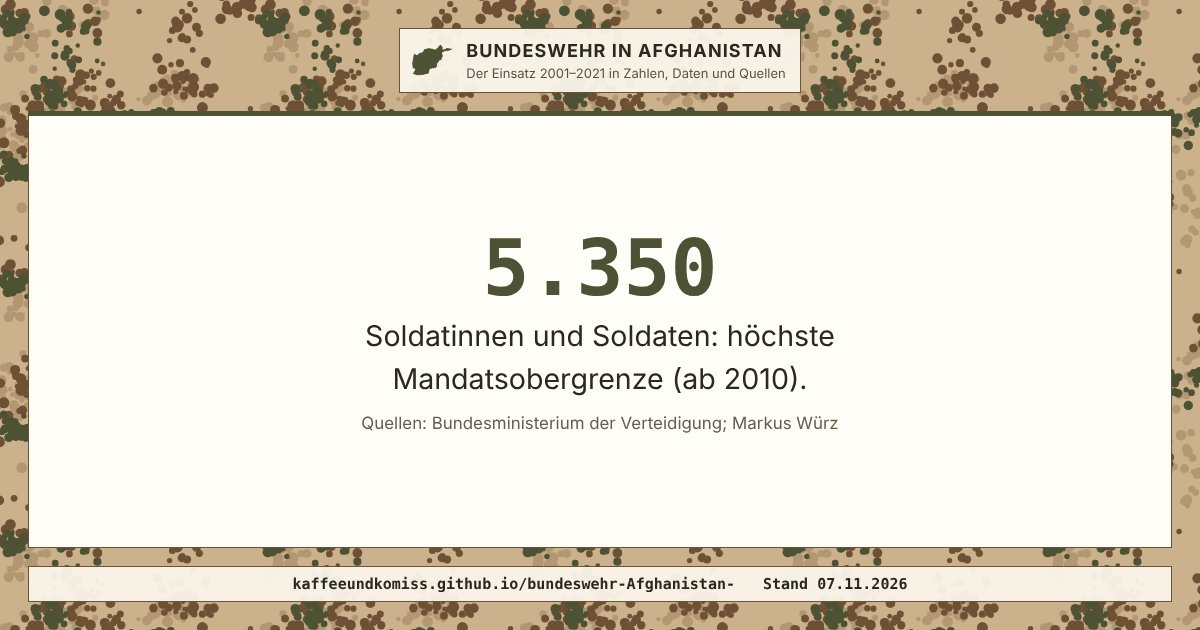
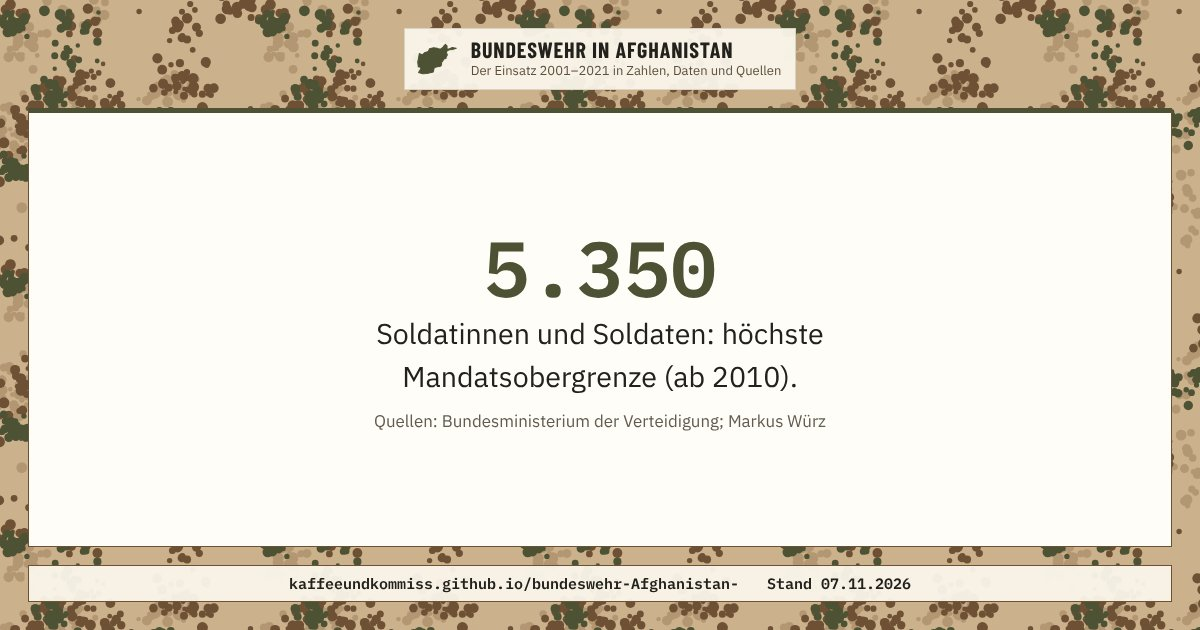
Schreibweise „Kommiss“: Name und Adressen auf kaffeeundkommiss umstellen
Angezeigter Name „Kaffee und Komiss“ wird „Kaffee und Kommiss“,
alle Adressen kaffeeundkomiss.github.io werden kaffeeundkommiss.github.io.
Erst nach der Umbenennung der Organisation zusammenführen.

Claude-Session: https://claude.ai/code/session_01AuP7hHYXuN4HKAYRaGng7a

diff --git a/index.html b/index.html
@@ -5,14 +5,14 @@
 <meta name="viewport" content="width=device-width, initial-scale=1">
 <title>Bundeswehr in Afghanistan</title>
 <meta name="description" content="Der Einsatz der Bundeswehr in Afghanistan 2001–2021: Kennzahlen, Zeitleiste und Aufarbeitung, jede Angabe mit Quelle.">
-<link rel="canonical" href="https://kaffeeundkomiss.github.io/bundeswehr-Afghanistan-/">
+<link rel="canonical" href="https://kaffeeundkommiss.github.io/bundeswehr-Afghanistan-/">
 <meta property="og:type" content="website">
 <meta property="og:locale" content="de_DE">
 <meta property="og:site_name" content="Bundeswehr in Afghanistan">
 <meta property="og:title" content="Bundeswehr in Afghanistan 2001–2021">
 <meta property="og:description" content="Der Einsatz der Bundeswehr in Afghanistan 2001–2021: Kennzahlen, Zeitleiste und Aufarbeitung, jede Angabe mit Quelle.">
-<meta property="og:url" content="https://kaffeeundkomiss.github.io/bundeswehr-Afghanistan-/">
-<meta property="og:image" content="https://kaffeeundkomiss.github.io/bundeswehr-Afghanistan-/teilen/bilder/start.jpg?v=38b8fcf4">
+<meta property="og:url" content="https://kaffeeundkommiss.github.io/bundeswehr-Afghanistan-/">
+<meta property="og:image" content="https://kaffeeundkommiss.github.io/bundeswehr-Afghanistan-/teilen/bilder/start.jpg?v=f6bd7b50">
 <meta property="og:image:width" content="1200">
 <meta property="og:image:height" content="630">
 <meta property="og:image:alt" content="Schriftzug Bundeswehr in Afghanistan auf Tarnmuster">
@@ -29,8 +29,8 @@
 </head>
 <body>
 <div class="kk-leiste"><div class="kk-in">
-  <a class="kk-haus" href="https://kaffeeundkomiss.github.io/"><img src="kk-tasse.svg" alt="" width="22" height="22"><span>Kaffee und Komiss</span></a>
-  <nav class="kk-bereiche" aria-label="Bereiche"><a href="https://kaffeeundkomiss.github.io/erster-Weltkrieg/">Geschichte</a><a href="https://kaffeeundkomiss.github.io/bundeswehr-Afghanistan-/" aria-current="true"><span class="kk-lang">Sicherheitspolitik</span><span class="kk-kurz">Sicherheit</span></a><a href="https://kirchnerjan-cell.github.io/fdp-monitor/">Politik</a></nav>
+  <a class="kk-haus" href="https://kaffeeundkommiss.github.io/"><img src="kk-tasse.svg" alt="" width="22" height="22"><span>Kaffee und Kommiss</span></a>
+  <nav class="kk-bereiche" aria-label="Bereiche"><a href="https://kaffeeundkommiss.github.io/erster-Weltkrieg/">Geschichte</a><a href="https://kaffeeundkommiss.github.io/bundeswehr-Afghanistan-/" aria-current="true"><span class="kk-lang">Sicherheitspolitik</span><span class="kk-kurz">Sicherheit</span></a><a href="https://kirchnerjan-cell.github.io/fdp-monitor/">Politik</a></nav>
 </div></div>
 <header class="top">
   <div class="wrap">
@@ -274,7 +274,7 @@
 </main>
 
 <footer class="kk-fuss"><div class="kk-in">
-  <p><a href="https://kaffeeundkomiss.github.io/">Kaffee und Komiss</a>: Politik, Geschichte und Sicherheitspolitik mit Quellen. Private, nichtkommerzielle Zusammenstellung. Fehler gefunden? Bitte mit Quelle melden.</p>
+  <p><a href="https://kaffeeundkommiss.github.io/">Kaffee und Kommiss</a>: Politik, Geschichte und Sicherheitspolitik mit Quellen. Private, nichtkommerzielle Zusammenstellung. Fehler gefunden? Bitte mit Quelle melden.</p>
 </div></footer>
 </body>
 </html>

diff --git a/karte.html b/karte.html
@@ -17,8 +17,8 @@
 </head>
 <body>
 <div class="kk-leiste"><div class="kk-in">
-  <a class="kk-haus" href="https://kaffeeundkomiss.github.io/"><img src="kk-tasse.svg" alt="" width="22" height="22"><span>Kaffee und Komiss</span></a>
-  <nav class="kk-bereiche" aria-label="Bereiche"><a href="https://kaffeeundkomiss.github.io/erster-Weltkrieg/">Geschichte</a><a href="https://kaffeeundkomiss.github.io/bundeswehr-Afghanistan-/" aria-current="true"><span class="kk-lang">Sicherheitspolitik</span><span class="kk-kurz">Sicherheit</span></a><a href="https://kirchnerjan-cell.github.io/fdp-monitor/">Politik</a></nav>
+  <a class="kk-haus" href="https://kaffeeundkommiss.github.io/"><img src="kk-tasse.svg" alt="" width="22" height="22"><span>Kaffee und Kommiss</span></a>
+  <nav class="kk-bereiche" aria-label="Bereiche"><a href="https://kaffeeundkommiss.github.io/erster-Weltkrieg/">Geschichte</a><a href="https://kaffeeundkommiss.github.io/bundeswehr-Afghanistan-/" aria-current="true"><span class="kk-lang">Sicherheitspolitik</span><span class="kk-kurz">Sicherheit</span></a><a href="https://kirchnerjan-cell.github.io/fdp-monitor/">Politik</a></nav>
 </div></div>
 <header class="top">
   <div class="wrap">
@@ -165,7 +165,7 @@
 </main>
 
 <footer class="kk-fuss"><div class="kk-in">
-  <p><a href="https://kaffeeundkomiss.github.io/">Kaffee und Komiss</a>: Politik, Geschichte und Sicherheitspolitik mit Quellen. Private, nichtkommerzielle Zusammenstellung. Fehler gefunden? Bitte mit Quelle melden.</p>
+  <p><a href="https://kaffeeundkommiss.github.io/">Kaffee und Kommiss</a>: Politik, Geschichte und Sicherheitspolitik mit Quellen. Private, nichtkommerzielle Zusammenstellung. Fehler gefunden? Bitte mit Quelle melden.</p>
 </div></footer>
 </body>
 </html>

diff --git a/rc-nord.html b/rc-nord.html
@@ -17,8 +17,8 @@
 </head>
 <body>
 <div class="kk-leiste"><div class="kk-in">
-  <a class="kk-haus" href="https://kaffeeundkomiss.github.io/"><img src="kk-tasse.svg" alt="" width="22" height="22"><span>Kaffee und Komiss</span></a>
-  <nav class="kk-bereiche" aria-label="Bereiche"><a href="https://kaffeeundkomiss.github.io/erster-Weltkrieg/">Geschichte</a><a href="https://kaffeeundkomiss.github.io/bundeswehr-Afghanistan-/" aria-current="true"><span class="kk-lang">Sicherheitspolitik</span><span class="kk-kurz">Sicherheit</span></a><a href="https://kirchnerjan-cell.github.io/fdp-monitor/">Politik</a></nav>
+  <a class="kk-haus" href="https://kaffeeundkommiss.github.io/"><img src="kk-tasse.svg" alt="" width="22" height="22"><span>Kaffee und Kommiss</span></a>
+  <nav class="kk-bereiche" aria-label="Bereiche"><a href="https://kaffeeundkommiss.github.io/erster-Weltkrieg/">Geschichte</a><a href="https://kaffeeundkommiss.github.io/bundeswehr-Afghanistan-/" aria-current="true"><span class="kk-lang">Sicherheitspolitik</span><span class="kk-kurz">Sicherheit</span></a><a href="https://kirchnerjan-cell.github.io/fdp-monitor/">Politik</a></nav>
 </div></div>
 <header class="top">
   <div class="wrap">
@@ -193,7 +193,7 @@
 </main>
 
 <footer class="kk-fuss"><div class="kk-in">
-  <p><a href="https://kaffeeundkomiss.github.io/">Kaffee und Komiss</a>: Politik, Geschichte und Sicherheitspolitik mit Quellen. Private, nichtkommerzielle Zusammenstellung. Fehler gefunden? Bitte mit Quelle melden.</p>
+  <p><a href="https://kaffeeundkommiss.github.io/">Kaffee und Kommiss</a>: Politik, Geschichte und Sicherheitspolitik mit Quellen. Private, nichtkommerzielle Zusammenstellung. Fehler gefunden? Bitte mit Quelle melden.</p>
 </div></footer>
 </body>
 </html>

diff --git a/regionalkommandos.html b/regionalkommandos.html
@@ -17,8 +17,8 @@
 </head>
 <body>
 <div class="kk-leiste"><div class="kk-in">
-  <a class="kk-haus" href="https://kaffeeundkomiss.github.io/"><img src="kk-tasse.svg" alt="" width="22" height="22"><span>Kaffee und Komiss</span></a>
-  <nav class="kk-bereiche" aria-label="Bereiche"><a href="https://kaffeeundkomiss.github.io/erster-Weltkrieg/">Geschichte</a><a href="https://kaffeeundkomiss.github.io/bundeswehr-Afghanistan-/" aria-current="true"><span class="kk-lang">Sicherheitspolitik</span><span class="kk-kurz">Sicherheit</span></a><a href="https://kirchnerjan-cell.github.io/fdp-monitor/">Politik</a></nav>
+  <a class="kk-haus" href="https://kaffeeundkommiss.github.io/"><img src="kk-tasse.svg" alt="" width="22" height="22"><span>Kaffee und Kommiss</span></a>
+  <nav class="kk-bereiche" aria-label="Bereiche"><a href="https://kaffeeundkommiss.github.io/erster-Weltkrieg/">Geschichte</a><a href="https://kaffeeundkommiss.github.io/bundeswehr-Afghanistan-/" aria-current="true"><span class="kk-lang">Sicherheitspolitik</span><span class="kk-kurz">Sicherheit</span></a><a href="https://kirchnerjan-cell.github.io/fdp-monitor/">Politik</a></nav>
 </div></div>
 <header class="top">
   <div class="wrap">
@@ -186,7 +186,7 @@
 </main>
 
 <footer class="kk-fuss"><div class="kk-in">
-  <p><a href="https://kaffeeundkomiss.github.io/">Kaffee und Komiss</a>: Politik, Geschichte und Sicherheitspolitik mit Quellen. Private, nichtkommerzielle Zusammenstellung. Fehler gefunden? Bitte mit Quelle melden.</p>
+  <p><a href="https://kaffeeundkommiss.github.io/">Kaffee und Kommiss</a>: Politik, Geschichte und Sicherheitspolitik mit Quellen. Private, nichtkommerzielle Zusammenstellung. Fehler gefunden? Bitte mit Quelle melden.</p>
 </div></footer>
 </body>
 </html>

diff --git a/teilen/k-obergrenze.html b/teilen/k-obergrenze.html
@@ -10,8 +10,8 @@
 <meta property="og:site_name" content="Bundeswehr in Afghanistan">
 <meta property="og:title" content="Bis zu 5.350 Soldatinnen und Soldaten: höchste Mandatsobergrenze für Afghanistan">
 <meta property="og:description" content="Der Afghanistan-Einsatz der Bundeswehr 2001–2021 in Zahlen, mit Quellen.">
-<meta property="og:url" content="https://kaffeeundkomiss.github.io/bundeswehr-Afghanistan-/teilen/k-obergrenze.html">
-<meta property="og:image" content="https://kaffeeundkomiss.github.io/bundeswehr-Afghanistan-/teilen/bilder/k-obergrenze.jpg?v=98c0e6a3">
+<meta property="og:url" content="https://kaffeeundkommiss.github.io/bundeswehr-Afghanistan-/teilen/k-obergrenze.html">
+<meta property="og:image" content="https://kaffeeundkommiss.github.io/bundeswehr-Afghanistan-/teilen/bilder/k-obergrenze.jpg?v=43eba636">
 <meta property="og:image:width" content="1200">
 <meta property="og:image:height" content="630">
 <meta property="og:image:alt" content="Bis zu 5.350 Soldatinnen und Soldaten: höchste Mandatsobergrenze für Afghanistan">

diff --git a/teilen/k-gefallene.html b/teilen/k-gefallene.html
@@ -10,8 +10,8 @@
 <meta property="og:site_name" content="Bundeswehr in Afghanistan">
 <meta property="og:title" content="35 deutsche Soldaten fielen in Afghanistan in Gefechten oder bei Anschlägen">
 <meta property="og:description" content="Der Afghanistan-Einsatz der Bundeswehr 2001–2021 in Zahlen, mit Quellen.">
-<meta property="og:url" content="https://kaffeeundkomiss.github.io/bundeswehr-Afghanistan-/teilen/k-gefallene.html">
-<meta property="og:image" content="https://kaffeeundkomiss.github.io/bundeswehr-Afghanistan-/teilen/bilder/k-gefallene.jpg?v=d397066c">
+<meta property="og:url" content="https://kaffeeundkommiss.github.io/bundeswehr-Afghanistan-/teilen/k-gefallene.html">
+<meta property="og:image" content="https://kaffeeundkommiss.github.io/bundeswehr-Afghanistan-/teilen/bilder/k-gefallene.jpg?v=362af86b">
 <meta property="og:image:width" content="1200">
 <meta property="og:image:height" content="630">
 <meta property="og:image:alt" content="35 deutsche Soldaten fielen in Afghanistan in Gefechten oder bei Anschlägen">

diff --git a/teilen/g-evakuierung.html b/teilen/g-evakuierung.html
@@ -10,8 +10,8 @@
 <meta property="og:site_name" content="Bundeswehr in Afghanistan">
 <meta property="og:title" content="5.347 Menschen aus Kabul ausgeflogen, mehr als 4.000 davon aus Afghanistan">
 <meta property="og:description" content="Grafik mit Quellen: Evakuierung durch die Bundeswehr im August 2021.">
-<meta property="og:url" content="https://kaffeeundkomiss.github.io/bundeswehr-Afghanistan-/teilen/g-evakuierung.html">
-<meta property="og:image" content="https://kaffeeundkomiss.github.io/bundeswehr-Afghanistan-/teilen/bilder/g-evakuierung.jpg?v=ca6b4ea7">
+<meta property="og:url" content="https://kaffeeundkommiss.github.io/bundeswehr-Afghanistan-/teilen/g-evakuierung.html">
+<meta property="og:image" content="https://kaffeeundkommiss.github.io/bundeswehr-Afghanistan-/teilen/bilder/g-evakuierung.jpg?v=d9ea1011">
 <meta property="og:image:width" content="1200">
 <meta property="og:image:height" content="630">
 <meta property="og:image:alt" content="5.347 Menschen aus Kabul ausgeflogen, mehr als 4.000 davon aus Afghanistan">

diff --git a/teilen/g-kundus.html b/teilen/g-kundus.html
@@ -10,8 +10,8 @@
 <meta property="og:site_name" content="Bundeswehr in Afghanistan">
 <meta property="og:title" content="Luftangriff bei Kundus 2009: Angaben zu den Toten zwischen 17 und 142">
 <meta property="og:description" content="Grafik mit Quelle: Wie viele Menschen starben, ist bis heute nicht abschließend geklärt.">
-<meta property="og:url" content="https://kaffeeundkomiss.github.io/bundeswehr-Afghanistan-/teilen/g-kundus.html">
-<meta property="og:image" content="https://kaffeeundkomiss.github.io/bundeswehr-Afghanistan-/teilen/bilder/g-kundus.jpg?v=004f826e">
+<meta property="og:url" content="https://kaffeeundkommiss.github.io/bundeswehr-Afghanistan-/teilen/g-kundus.html">
+<meta property="og:image" content="https://kaffeeundkommiss.github.io/bundeswehr-Afghanistan-/teilen/bilder/g-kundus.jpg?v=836db712">
 <meta property="og:image:width" content="1200">
 <meta property="og:image:height" content="630">
 <meta property="og:image:alt" content="Luftangriff bei Kundus 2009: Angaben zu den Toten zwischen 17 und 142">

diff --git a/teilen/g-tote.html b/teilen/g-tote.html
@@ -10,8 +10,8 @@
 <meta property="og:site_name" content="Bundeswehr in Afghanistan">
 <meta property="og:title" content="59 deutsche Soldaten starben in Afghanistan, 35 davon in Gefechten oder bei Anschlägen">
 <meta property="og:description" content="Grafik mit Quellen: Bundeswehr in Afghanistan 2001–2021.">
-<meta property="og:url" content="https://kaffeeundkomiss.github.io/bundeswehr-Afghanistan-/teilen/g-tote.html">
-<meta property="og:image" content="https://kaffeeundkomiss.github.io/bundeswehr-Afghanistan-/teilen/bilder/g-tote.jpg?v=a6571f5f">
+<meta property="og:url" content="https://kaffeeundkommiss.github.io/bundeswehr-Afghanistan-/teilen/g-tote.html">
+<meta property="og:image" content="https://kaffeeundkommiss.github.io/bundeswehr-Afghanistan-/teilen/bilder/g-tote.jpg?v=c3afceb8">
 <meta property="og:image:width" content="1200">
 <meta property="og:image:height" content="630">
 <meta property="og:image:alt" content="59 deutsche Soldaten starben in Afghanistan, 35 davon in Gefechten oder bei Anschlägen">

diff --git a/teilen/g-abstimmung.html b/teilen/g-abstimmung.html
@@ -10,8 +10,8 @@
 <meta property="og:site_name" content="Bundeswehr in Afghanistan">
 <meta property="og:title" content="22.12.2001: 538 Abgeordnete stimmen für den ISAF-Einsatz in Afghanistan">
 <meta property="og:description" content="Grafik mit Quellen: Bundeswehr in Afghanistan 2001–2021.">
-<meta property="og:url" content="https://kaffeeundkomiss.github.io/bundeswehr-Afghanistan-/teilen/g-abstimmung.html">
-<meta property="og:image" content="https://kaffeeundkomiss.github.io/bundeswehr-Afghanistan-/teilen/bilder/g-abstimmung.jpg?v=17a201a3">
+<meta property="og:url" content="https://kaffeeundkommiss.github.io/bundeswehr-Afghanistan-/teilen/g-abstimmung.html">
+<meta property="og:image" content="https://kaffeeundkommiss.github.io/bundeswehr-Afghanistan-/teilen/bilder/g-abstimmung.jpg?v=acb0f9a3">
 <meta property="og:image:width" content="1200">
 <meta property="og:image:height" content="630">
 <meta property="og:image:alt" content="22.12.2001: 538 Abgeordnete stimmen für den ISAF-Einsatz in Afghanistan">

diff --git a/teilen/k-evakuierte.html b/teilen/k-evakuierte.html
@@ -10,8 +10,8 @@
 <meta property="og:site_name" content="Bundeswehr in Afghanistan">
 <meta property="og:title" content="5.347 Menschen flog die Bundeswehr im August 2021 aus Kabul aus">
 <meta property="og:description" content="Der Afghanistan-Einsatz der Bundeswehr 2001–2021 in Zahlen, mit Quellen.">
-<meta property="og:url" content="https://kaffeeundkomiss.github.io/bundeswehr-Afghanistan-/teilen/k-evakuierte.html">
-<meta property="og:image" content="https://kaffeeundkomiss.github.io/bundeswehr-Afghanistan-/teilen/bilder/k-evakuierte.jpg?v=e0ef1219">
+<meta property="og:url" content="https://kaffeeundkommiss.github.io/bundeswehr-Afghanistan-/teilen/k-evakuierte.html">
+<meta property="og:image" content="https://kaffeeundkommiss.github.io/bundeswehr-Afghanistan-/teilen/bilder/k-evakuierte.jpg?v=87eb21ee">
 <meta property="og:image:width" content="1200">
 <meta property="og:image:height" content="630">
 <meta property="og:image:alt" content="5.347 Menschen flog die Bundeswehr im August 2021 aus Kabul aus">

diff --git a/teilen/g-mandat.html b/teilen/g-mandat.html
@@ -10,8 +10,8 @@
 <meta property="og:site_name" content="Bundeswehr in Afghanistan">
 <meta property="og:title" content="Evakuierung Kabul 2021: rund 500 Soldaten im Einsatz, bis zu 600 erlaubt">
 <meta property="og:description" content="Grafik mit Quellen: Bundeswehr in Afghanistan 2001–2021.">
-<meta property="og:url" content="https://kaffeeundkomiss.github.io/bundeswehr-Afghanistan-/teilen/g-mandat.html">
-<meta property="og:image" content="https://kaffeeundkomiss.github.io/bundeswehr-Afghanistan-/teilen/bilder/g-mandat.jpg?v=26d71159">
+<meta property="og:url" content="https://kaffeeundkommiss.github.io/bundeswehr-Afghanistan-/teilen/g-mandat.html">
+<meta property="og:image" content="https://kaffeeundkommiss.github.io/bundeswehr-Afghanistan-/teilen/bilder/g-mandat.jpg?v=e5b93aa4">
 <meta property="og:image:width" content="1200">
 <meta property="og:image:height" content="630">
 <meta property="og:image:alt" content="Evakuierung Kabul 2021: rund 500 Soldaten im Einsatz, bis zu 600 erlaubt">
